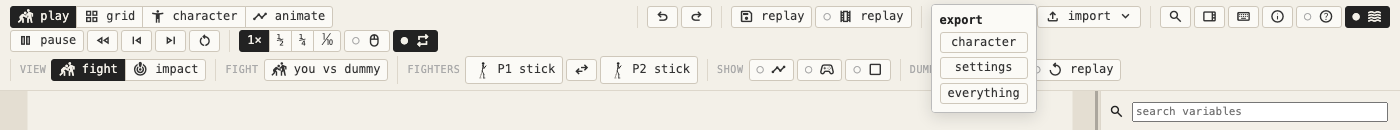
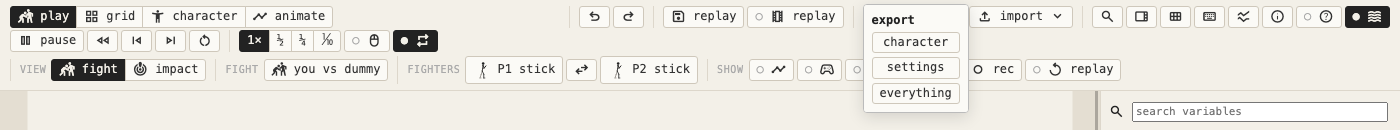
Keep layouts per tab, with named sets
- New layout.js: folds, "more" and the side panel per tab
- Old fold state moves over once
- Layout button: switch, save as, reset tab or all, delete
- ⌘K entries for layouts; docs and a guide topic

Changed region(s): [[0.3993, 0.0308, 0.8907, 0.2154], [0.6143, 0.2462, 0.7371, 0.8], [0.6143, 0.8615, 0.7371, 0.8923]]

diff --git a/src/layout.js b/src/layout.js
@@ -1,0 +1,58 @@
+'use strict';
+// ---------- layouts: what each tab shows (folds, "more", the side panel), kept per tab as you go; named sets to switch between and reset ----------
+// stored as { current, sets: { name: { tabs: { play: state, … } } } }; a tab's state starts empty and empty means the code's defaults
+const LAY_STORE = 'stick2.layouts', LAY_DEFAULT = 'default';
+const layouts = (() => { try { const l = JSON.parse(localStorage.getItem(LAY_STORE)); if (l?.sets?.[LAY_DEFAULT]) return l; } catch {} return null; })()
+  || { current: LAY_DEFAULT, sets: { [LAY_DEFAULT]: { tabs: {} } }, fresh: true };
+if (!layouts.sets[layouts.current]) layouts.current = LAY_DEFAULT;
+const saveLay = () => { try { const { fresh, ...l } = layouts; localStorage.setItem(LAY_STORE, JSON.stringify(l)); } catch {} };
+const laySet = () => layouts.sets[layouts.current];
+// the state of a tab (default: the shown one) in the current set
+function lay(tab = tabOf(app.mode)) {
+  const s = laySet().tabs[tab] ??= {};
+  s.hide ??= {}; s.fold ??= {}; s.more ??= {};
+  return s;
+}
+// the folds and "more" from before layouts (ui.fold / ui.more, keyed mode:heading) go to the tab of their mode, once
+function layInit() {
+  if (layouts.fresh) for (const what of ['fold', 'more']) for (const [k, v] of Object.entries(ui[what] || {})) lay(tabOf(k.split(':')[0]))[what][k] = v;
+  delete layouts.fresh; saveLay();
+  delete ui.fold; delete ui.more; saveUi();
+}
+// show the shown tab's layout: the side panel on or off, then the panels
+function layApply() {
+  const off = !!lay().hide.side;
+  if (document.body.classList.contains('noside') !== off) { document.body.classList.toggle('noside', off); resize(); }
+  panels();
+}
+function layReset(tab) {
+  if (tab) delete laySet().tabs[tab]; else laySet().tabs = {};
+  saveLay(); layApply();
+}
+function layUse(name) { layouts.current = name; saveLay(); layApply(); }
+function laySaveAs() {
+  const name = prompt('Name of the new layout (it starts as a copy of this one)', 'layout' + Object.keys(layouts.sets).length)?.trim();
+  if (!name) return;
+  if (layouts.sets[name] && !confirm(`Replace the layout "${name}"?`)) return;
+  layouts.sets[name] = JSON.parse(JSON.stringify(laySet()));
+  layUse(name);
+}
+function layDelete() {
+  if (layouts.current === LAY_DEFAULT) return;
+  delete layouts.sets[layouts.current];
+  layUse(LAY_DEFAULT);
+}
+const LAY_TIP = 'Layout: what each tab shows, remembered per tab as you go (folded sections, "more", the side panel); save it under a name, switch between layouts, reset a tab or all';
+// the layout popup (menu bar): the named layouts, save as, reset, delete
+function layoutPanel(e, b) {
+  const tab = tabOf(app.mode), names = Object.keys(layouts.sets);
+  const re = () => { closePop(); layoutPanel(null, b); };
+  popup(b, h('b', { textContent: 'layout · ' + tab }),
+    h('div', { cls: 'row', tip: 'The layout in use; changes are kept in it as you go' }, h('span', { textContent: 'use' }),
+      seg(names, () => layouts.current, n => { layUse(n); re(); }, Object.fromEntries(names.map(n => [n, n === LAY_DEFAULT ? 'The default layout' : `The layout "${n}"`])))),
+    h('div', { cls: 'bar' },
+      button(':save: save as…', 'Save this layout (every tab) under a new name and use it', () => { laySaveAs(); re(); }),
+      button(':restart_alt: reset tab', `The ${tab} tab back to how it starts, in this layout`, () => { layReset(tab); re(); }),
+      button(':restart_alt: reset all', 'Every tab back to how it starts, in this layout', () => { layReset(); re(); }),
+      layouts.current !== LAY_DEFAULT && button(':delete: delete', `Delete the layout "${layouts.current}" and go back to the default`, () => { layDelete(); re(); })));
+}

diff --git a/tests/browser.js b/tests/browser.js
@@ -234,6 +234,22 @@ try {
     if (shown.join() !== 'fireball,fireball clash' || [...document.querySelectorAll('.pop h4')].filter(e => !e.hidden).length !== 1) errs.push('scenario filter ' + shown);
     q.dispatchEvent(new KeyboardEvent('keydown', { key: 'Enter' })); if (lab.scen !== 'fireball' || document.querySelector('.pop')) errs.push('scenario filter enter ' + lab.scen);
     lab.scen = 'you vs dummy'; build(); }
+  // layouts: folds and the side panel are kept per tab in the current layout; save as copies it, switching swaps them, reset clears a tab or all
+  { setMode('play'); const fold = () => document.querySelector('#side .fold:not(.shut)'), k0 = fold().k; fold().querySelector('h3').click();
+    if (lay().fold[k0] !== true || !JSON.parse(localStorage.getItem('stick2.layouts')).sets.default.tabs.play.fold[k0]) errs.push('layout fold saved');
+    togglePanel(); if (!document.body.classList.contains('noside') || !lay().hide.side) errs.push('layout panel off');
+    setMode('character'); if (document.body.classList.contains('noside')) errs.push('layout panel is per tab'); setMode('play');
+    const pr = window.prompt; window.prompt = () => 'mine'; laySaveAs(); window.prompt = pr;
+    if (layouts.current !== 'mine' || !lay().hide.side) errs.push('layout save as');
+    layReset('play'); if (document.body.classList.contains('noside') || lay().fold[k0] !== undefined) errs.push('layout reset tab');
+    layUse('default'); if (!document.body.classList.contains('noside')) errs.push('layout switch');
+    $('global').querySelector('button[data-tip^="Layout:"]').click(); const pb = t => [...document.querySelectorAll('.pop button')].find(b => b.textContent.includes(t));
+    if (!pb('mine') || pb('delete')) errs.push('layout popup'); pb('reset all').click();
+    if (document.body.classList.contains('noside') || Object.keys(laySet().tabs).some(t => Object.keys(lay(t).fold).length)) errs.push('layout reset all');
+    layUse('mine'); layDelete(); if (layouts.current !== 'default' || layouts.sets.mine) errs.push('layout delete'); closePop();
+    paletteEntries().find(e => e.name === 'layout: default')?.run(); if (layouts.current !== 'default') errs.push('layout in ⌘K');
+    layouts.fresh = true; ui.fold = { 'impact:presets': true, 'gallery:power': true }; layInit(); // folds saved before layouts move to their tab
+    if (lay('play').fold['impact:presets'] !== true || lay('animate').fold['gallery:power'] !== true || ui.fold) errs.push('layout migration'); layReset(); }
   // settings persist: a change is stored (only what differs from the defaults), comes back on load, bad values are dropped; reset settings brings back the defaults
   { setCfg({ hitstop: 0.2, easing: 'step' }); setDisplay('boxes', true); const st = JSON.parse(localStorage.getItem('stick2.settings'));
     if (st.hitstop !== 0.2 || st.easing !== 'step' || st.boxes !== true || 'gravity' in st) errs.push('settings stored ' + JSON.stringify(st));

diff --git a/src/app.js b/src/app.js
@@ -20,7 +20,7 @@ function setMode(m) {
   app.mode = m; closePop(); cursor('default');
   if (!ui.seen[m]) { ui.seen[m] = true; saveUi(); app.hintUntil = performance.now() + 8000; } // the first visit shows the hints a moment
   mode().enter(m);
-  panels();
+  layApply(); // the tab's layout: side panel, then the panels
 }
 function panels() {
   const views = VIEWS[tabOf(app.mode)];
@@ -45,7 +45,7 @@ function factoryReset(anchor = $('global')) {
       reload();
     }), button(':close: cancel', 'Keep everything', closePop)));
 }
-function togglePanel() { document.body.classList.toggle('noside'); resize(); }
+function togglePanel() { lay().hide.side = !lay().hide.side; saveLay(); layApply(); }
 
 // help under the rebindable keys (P = punch, K = kick, directions as on the numpad: 2 down, 3 down-forward, 6 forward…)
 const KEYS = [
@@ -69,7 +69,8 @@ function buildTop() {
     grp('', 'Files: the character, the settings or everything, as JSON', button(':download: export :expand_more:', 'Export to a file: the character, the settings or everything', fileMenu('export', exportFile)),
       button(':upload: import :expand_more:', 'Import from a file: a character, settings or everything', fileMenu('import', importFile))),
     grp('', 'Layout and keys', button(':search:', 'Find anything (⌘K): a mode, a toolbar tool, an action, a table (moves, inputs, combos, bones), a character, a move or a setting', openPalette),
-      button(':view_sidebar:', 'Panel: show / hide the side panel' + keyTip('panel'), togglePanel),
+      button(':view_sidebar:', 'Panel: show / hide the side panel (remembered per tab)' + keyTip('panel'), togglePanel),
+      button(':view_module:', LAY_TIP, layoutPanel),
       button(':keyboard:', 'Keys: rebind any action, set up macros, and help', keysPanel),
       button(':ssid_chart:', 'Debug: ghost, boxes and the scope bone, the build and engine version, frame rate and the shown fight\'s state (copy for a bug report), reset settings, factory reset, and the monitor', debugPanel),
       button(':info:', 'Docs: how everything works, with live demo fights, and every setting, move flag, input and key explained; searchable (also in ⌘K)', () => openDocs()),
@@ -192,6 +193,7 @@ addEventListener('mousemove', e => {
 canvas.addEventListener('wheel', e => { if (mode().wheel?.(e.deltaY, e)) e.preventDefault(); }, { passive: false });
 addEventListener('mouseup', e => { if (!down) return; down = false; mode().mouse?.('up', ...at(e), e); syncAll(); });
 
+layInit();
 buildTop();
 setMode('play');
 readHash();

diff --git a/src/ui.js b/src/ui.js
@@ -120,10 +120,10 @@ function heading(title, info, keys) {
 }
 
 // ---------- side panel sections: a heading folds what follows it, up to the next heading; rows marked adv wait behind "more" ----------
-// both remembered per mode and heading (saved in this browser); a search shows everything that matches
+// both remembered per mode and heading in the tab's layout (layout.js); a search shows everything that matches
 const UI_STORE = 'stick2.ui';
 const ui = (() => { try { return JSON.parse(localStorage.getItem(UI_STORE)) || {}; } catch { return {}; } })();
-ui.fold ??= {}; ui.more ??= {}; ui.seen ??= {};
+ui.seen ??= {};
 const saveUi = () => { try { localStorage.setItem(UI_STORE, JSON.stringify(ui)); } catch {} };
 // open: headings shown unfolded until the user folds them
 function folds(els, scope, open) {
@@ -133,17 +133,18 @@ function folds(els, scope, open) {
     if (el.tagName !== 'H3') { if (body) body.append(el); else out.push(el); continue; }
     const name = (el.dataset.fold || el.firstChild?.textContent || '').toLowerCase(), k = scope + ':' + name;
     const sec = h('div', { cls: 'fold' }, el, body = h('div', { cls: 'fbody' }));
-    sec.classList.toggle('shut', ui.fold[k] ?? !open.includes(name));
-    sec.classList.toggle('more', !!ui.more[k]);
+    const L = lay();
+    sec.classList.toggle('shut', L.fold[k] ?? !open.includes(name));
+    sec.classList.toggle('more', !!L.more[k]);
     el.dataset.tip = el.dataset.tip || 'Click the heading to fold or unfold the section';
-    el.onclick = e => { if (e.target.closest('button')) return; ui.fold[k] = sec.classList.toggle('shut'); saveUi(); };
+    el.onclick = e => { if (e.target.closest('button')) return; L.fold[k] = sec.classList.toggle('shut'); saveLay(); };
     sec.k = k;
     out.push(sec);
   }
   for (const sec of out.filter(s => s.k)) {
     const advs = sec.querySelectorAll('.adv'), n = advs.length;
     if (!n) continue;
-    const b = button('', 'Show the less used variables of this group too (a search always shows them)', () => { ui.more[sec.k] = sec.classList.toggle('more'); saveUi(); }, 'mini morebtn');
+    const b = button('', 'Show the less used variables of this group too (a search always shows them)', () => { lay().more[sec.k] = sec.classList.toggle('more'); saveLay(); }, 'mini morebtn');
     reg(b, () => setRich(b, sec.classList.contains('more') ? ':unfold_less: fewer' : `:unfold_more: ${n} more`));
     advs[n - 1].after(b); // where the hidden rows show up
   }

diff --git a/src/docs.js b/src/docs.js
@@ -38,6 +38,7 @@ function guideTopics() {
       tries: [[':grid_view: grid', 'Open the grid', () => setMode('grid')]] },
     { id: 'debug', title: 'Rewind, replays and debugging', body: 'V rewinds a second, N steps a frame, M scrubs time with the mouse: every fight is restored from a checkpoint and replayed with the same inputs. Record a fight to a replay file (inputs, settings and characters, pinned to the engine version) and play it back later: both buttons sit in the menu bar next to undo / redo, with export / import for the character, the settings or everything. The frame meter colours startup, active, recovery, hitstun and blockstun per frame; the input display shows the inputs; boxes (B) shows hurt and hit shapes. Both meters are off by default (show in the toolbar).\n\nThe debug button in the menu bar (the chart icon) opens the build, engine version, frame rate and the shown fight\'s seed, state hash and fighters (copy them for a bug report), the ghost, boxes and scope switches and the monitor, in any tab.\n\nFactory reset (⌘K, or the debug popup) deletes everything kept in this browser (characters, keys and macros, layout) after asking, and reloads as new.',
       demos: ['J,J,K'], set: 'Debug' },
+    { id: 'layout', title: 'Layouts', body: 'Each tab remembers what it shows as you go: folded side sections, the ones showing more, the side panel on or off. The :view_module: button in the top bar keeps named layouts: save the current one under a name, switch between them, reset a tab or every tab, delete one. Settings and characters are saved in the browser too; reset settings is in the debug popup.' },
     { id: 'sound', title: 'Sound', body: 'Whooshes, hits, thuds and blocks are synthesized live (WebAudio, no files), panned by where they happen, in the live fight and the animate preview only. The :waves: button in the top bar mutes them.' },
   ];
 }

diff --git a/src/palette.js b/src/palette.js
@@ -25,6 +25,8 @@ function paletteEntries() {
       if (app.mode !== 'character') setMode('character');
       creator.view = null; creator.table = true; panels();
     } },
+    ...Object.keys(layouts.sets).map(n => ({ kind: 'layout', name: 'layout: ' + n, tip: 'Use this layout (what each tab shows)', run: () => layUse(n) })),
+    { kind: 'layout', name: 'reset layout', tip: 'This tab back to how it starts, in the layout in use', run: () => layReset(tabOf(app.mode)) },
     { kind: 'action', name: 'reset settings', tip: 'Every setting back to its default; ghost, boxes and scope stay (⌘Z undoes)', run: () => { applyPreset('juicy'); mode().restart(); } },
     { kind: 'action', name: 'factory reset', tip: 'Delete all local data (characters, settings, keys, macros, layout) and reload; asks first', run: () => factoryReset() },
     ...Object.keys(DEFS).map(c => ({ kind: 'character', name: c, tip: 'Use this character', run: () => pickChar(c) })),

diff --git a/index.html b/index.html
@@ -160,6 +160,7 @@
 <script src="src/brain.js"></script>
 <script src="src/checks.js"></script>
 <script src="src/ui.js"></script>
+<script src="src/layout.js"></script>
 <script src="src/sound.js"></script>
 <script src="src/studio.js"></script>
 <script src="src/lab.js"></script>

diff --git a/docs/interface.md b/docs/interface.md
@@ -12,7 +12,7 @@ Three rows, the same in every tab:
 
 | Row | What's on it |
 |---|---|
-| menu bar | the tabs · undo / redo · replay save / play · export / import · search, panel, keys, debug, docs, hints, sound |
+| menu bar | the tabs · undo / redo · replay save / play · export / import · search, panel, layout, keys, debug, docs, hints, sound |
 | transport | pause, rewind, step back, step, restart, speed, scrub, loop (the same in every mode) |
 | toolbar | the mode's own tools in labelled groups: fight · fighters · show · dummy, grid · axes · tests · stats… |
 
@@ -29,6 +29,18 @@ Three rows, the same in every tab:
 - Importing **everything** asks first.
 - A broken character in the file loads nothing.
 - Settings out of range fall back to their default.
+
+### Layouts
+
+The layout button (four squares) in the menu bar. Each tab remembers its own layout as you go: which side sections are folded, which show **more**, and whether the side panel is shown.
+
+| Button | Does |
+|---|---|
+| use | switches to another named layout; changes are kept in the one in use |
+| save as… | copies this layout (every tab) under a new name and uses it |
+| reset tab | this tab back to how it starts, in this layout |
+| reset all | every tab back to how it starts, in this layout |
+| delete | deletes the layout in use (not the default) |
 
 ### Debug
 
@@ -68,7 +80,7 @@ Links:
 
 - a mode, a tool on the current toolbar, or a key action;
 - a table: the move table, input table and combos (over the character tab there, else in animate), the bone table (in the character tab);
-- reset settings, factory reset;
+- a layout by name, reset layout, reset settings, factory reset;
 - a character, a move (opens it in animate) or a setting (searches the panel for it).
 
 ↑ ↓ pick, Enter runs, Esc closes.
@@ -109,7 +121,7 @@ Every heading carries its buttons on the right, in the same place:
 ### Less at once
 
 - Click a heading to fold its section. Folded ones hide their group buttons until hovered.
-- Only the section you work in starts open; each one is remembered per mode in this browser.
+- Only the section you work in starts open; each one is remembered per mode in the tab's [layout](#layouts).
 - Groups show their main variables and keep the rest behind a **more** button (moves: power, knock, launch, stun, damage; bones: len, thick, hurt, lag, stretch; settings: a few per group). A search shows every match, folded or not.
 - The character is one button with its drawing, which opens the grid of characters.
 - The help line under the view and the frame meter's colour legend show for a few seconds on the first visit to a mode, then only with **hints** (? top right).
